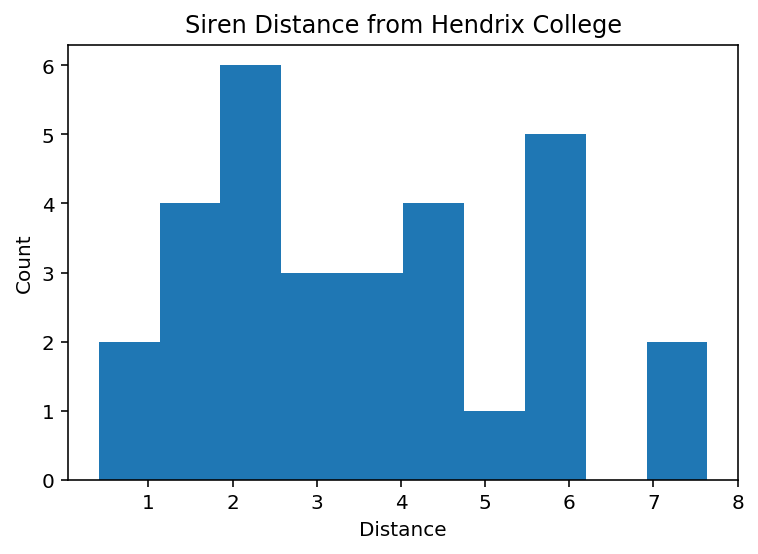
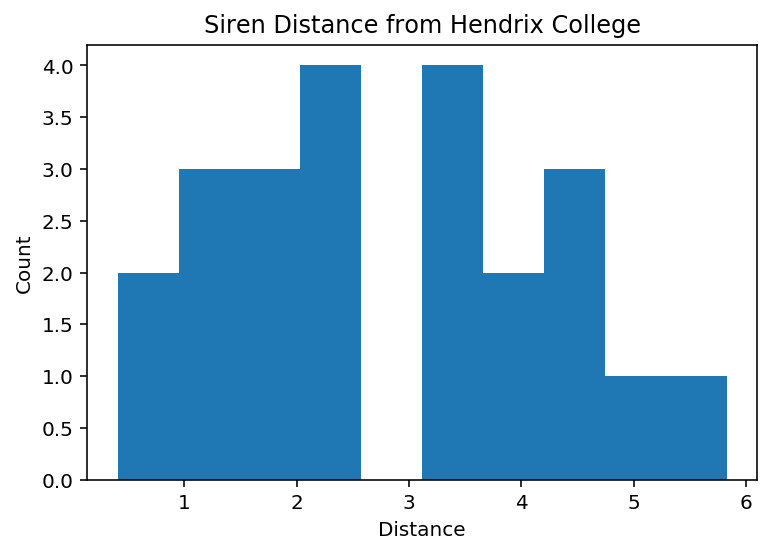
even more updates!

diff --git a/labs/lab13.html b/labs/lab13.html
@@ -17,7 +17,7 @@
 </ul>
 <h2>Overview</h2>
 Since 1999, over <a href="http://thecabin.net/slideshow/2014-02-07/faulkner-county-tornadoes#slide-1">
-20 tornadoes</a> have touched down in Faulkner County. According to the <a href="http://cityofconway.org/pages/conway-prepared/">Conway Prepared</a>:
+20 tornadoes</a> have touched down in Faulkner County. According to the <a href="http://cityofconway.org/pages/conway-prepared/">Conway Prepared</a> website:
 <blockquote>
 The City of Conway Outdoor Warning Siren system consists of 22 sirens strategically placed throughout the City. 
 The sirens may be activated individually or simultaneously to provide a general alert for the entire community. 
@@ -198,7 +198,7 @@ is a comma-separated file that contains information on the 23 educational instit
 each school's latitude and longitude, the name, the type of school, and the street address.
 <p>
 Second, <a href="../Tornado_Sirens.csv">Tornado_Sirens.csv</a>
-is a comma-separated file that contains information on the 30 tornado sirens in Conway. In this file, we can find
+is a comma-separated file that contains information on the 30 tornado sirens in Conway, some of which are inactive. In this file, we can find
 again the latitude and longitude of each siren, its approximate street address, elevation, and 
 whether it is active.
 <p>
@@ -227,29 +227,30 @@ If you are successful, you should have the following value for <code>schools[1]<
  '{CE5DFB8D-1936-47D5-98FE-E7A171FDBCDF}']
 </pre>
 <p>
-Also repeat the above code for the Tornado_Sirens.csv file to create a list called <code>sirens</code>.
+Also repeat the above code for the Tornado_Sirens.csv file to create a list called <code>sirens</code>,
+but only add sirens that are marked as 'Y' in the 'active' column.
 If you are successful, you should have the following value for <code>sirens[1]</code>
 <p>
 <pre>
-['-92.508840956149569',
- '35.111419057080532',
- '28',
+['-92.45626368838704',
+ '35.126945320125195',
+ '8',
+ '8',
+ '3458 Roberts rd',
+ '516',
+ '"92° 27\' 22.549"" W"',
+ '"35° 7\' 37.003"" N"',
+ '8',
+ 'Y',
  '',
- 'OLD MORRILTON AND SANITATION',
  '',
- '"92° 30\' 31.827"" W"',
- '"35° 6\' 41.109"" N"',
- '',
- 'Pr',
- '',
- '',
- 'GISADMIN',
- '2015-02-27T14:40:26.000Z',
- '{3101BF55-F18C-425C-9193-348F9311E9C8}']
+ 'JLYON',
+ '2015-11-12T22:27:00.000Z',
+ '{3EF73BCC-8DB1-4B07-AD83-C494ED5683F3}']
 </pre>
 <h2>Step 5 - Individual Schools </h2>
-We can try to understand the effectiveness of the network of sirens by drawing a histogram
-of the distances between schools and the sirens. We would expect in a network with good 
+We can try to understand the effectiveness of the system of sirens by drawing a histogram
+of the distances between schools and the sirens. We would expect in a system with good 
 coverage, we would see a somewhat uniform distribution with some sirens nearby.
 
 <h4>Task 5.1</h4>
@@ -264,7 +265,9 @@ How many sirens are within 1/2 mile? Within 1 mile?
 <p>
 <img src="../images/cocalcsirenhendrix.png" width=400>
 
-<h4>Task 5.2</h4>
+<h2>Step 6 - School Coverage </h2>
+Finally, we can gain some understanding of the total coverage of the system of sirens.
+<h4>Task 6.1</h4>
 Use your <code>siren_list</code> function to find the smallest distance to a siren for each
 of the schools. Draw a histogram of these smallest distances found. This 
 graph should show the distribution of minimum distances for sirens to schools.
@@ -274,9 +277,10 @@ Which school has the lowest minimum distance? Which school has the highest minim
 away from any siren)?
 <p>
 <img src="../images/cocalcsirenall.png" width=400>
-
-<h2>Step 6 - School Coverage </h2>
-
+<p>
+It looks like we have an outlier! There is one school with a minimum distance of over
+a mile from a siren!
+<p>
 plt.scatter for the schools
 plt.scatter for the sirens
 
@@ -285,16 +289,14 @@ make the siren radius large
 	
 make the color transparent
 
-add title, label axes
+Because we are using latitude and longitude, the aspect ratio of the image needs to be altered.
+A degree in latitude is always the same distance (69 miles) but a degree in longitude will change, 
+getting smaller as it approaches the north and south poles of the earth.
+<p>
+Be sure to add a title to your figure, and label the axes.
 
 Annotate the graph with hendrix and the school furthest away from any siren
 
-Record all your answers in your Lab Evaluation Document.
-<ol>
-<li> What are the outgoing links from that page?
-<li> How many total pages are reachable?
-<li> What is the single longest path originating from that page?
-</ol>
 
 <h2>What to Hand In</h2>
 Turn in your completed <tt>lab13.ipynb</tt> file on Moodle, as well as 
@@ -302,11 +304,10 @@ your Lab Evaluation Document.
 
 <h2>Grading</h2>
 <ul>
-  <li>To earn a D on this lab, complete Task 1.1.</li>
-  <li>To earn a C on this lab, do all the above and complete Task 1.2.</li>
-  <li>To earn a B on this lab, do all the above and complete Step 2.</li>
-  <li>To earn an A on this lab, do all the above and complete Tasks 3.1, 3.2 and 3.3.</li>
-  <li>To earn a 100 on this lab, do all the above and complete Task 3.4.</li>
+  <li>To earn a D on this lab, complete Steps 1 and 2.</li>
+  <li>To earn a C on this lab, do all the above and complete Steps 3 and 4</li>
+  <li>To earn a B on this lab, do all the above and complete Step 5</li>
+  <li>To earn a 100 on this lab, do all the above and complete Step 6</li>
 </ul>
 
 <hr>
